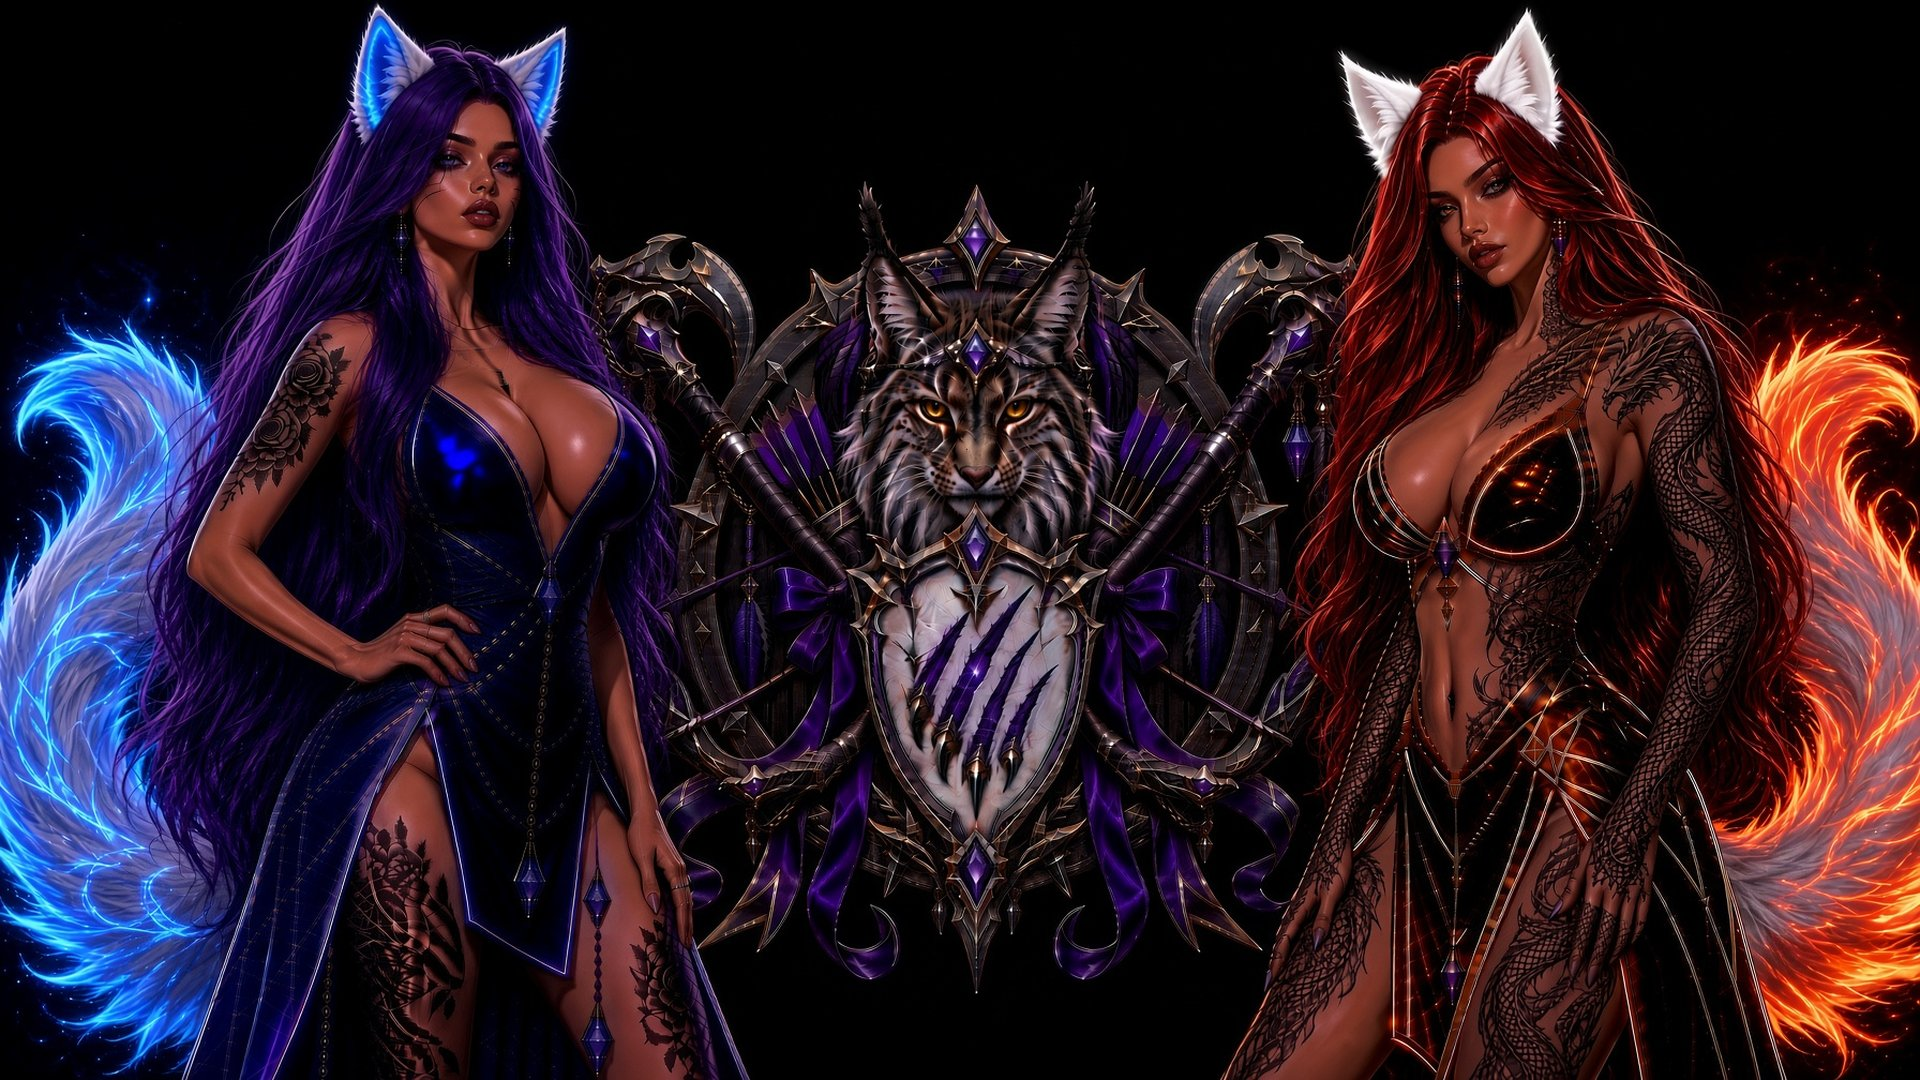
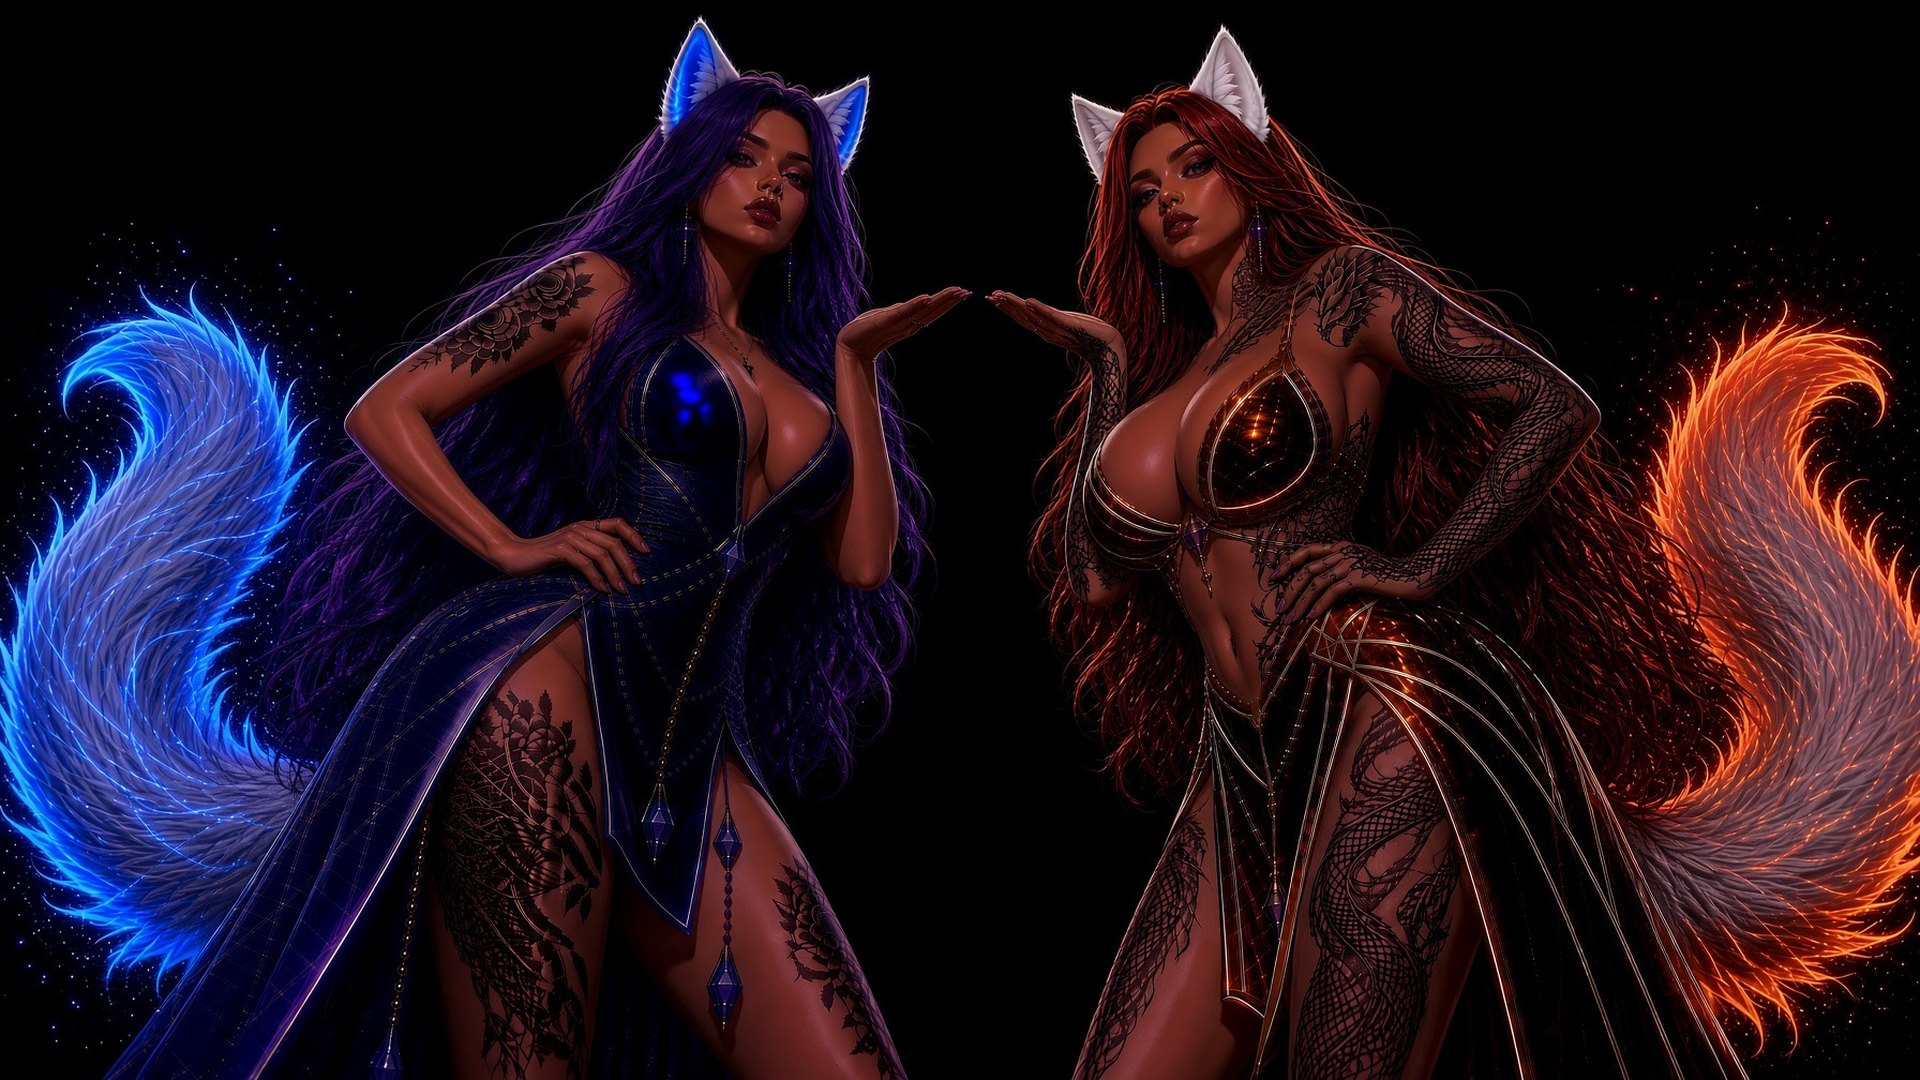
New background, color-changing heart, hide-text toggle

diff --git a/index.html b/index.html
@@ -17,8 +17,7 @@ body{font-family:'Space Mono','JetBrains Mono',ui-monospace,Menlo,Consolas,monos
 @keyframes hue{to{--h:360}}
 
 /* background */
-.bg{position:fixed;inset:-2%;background:url(bg.jpg) center/cover no-repeat;background-image:image-set(url(bg.webp) type("image/webp"),url(bg.jpg) type("image/jpeg"));filter:brightness(.85) saturate(1.1);animation:drift 40s ease-in-out infinite alternate;z-index:0}
-@keyframes drift{to{transform:scale(1.03) translate(-.5%,.5%)}}
+.bg{position:fixed;inset:0;background:url(bg.jpg) center/cover no-repeat;background-image:image-set(url(bg.webp) type("image/webp"),url(bg.jpg) type("image/jpeg"));filter:brightness(.85) saturate(1.1);z-index:0}
 .aurora{position:fixed;inset:0;z-index:1;mix-blend-mode:screen;opacity:.55;
  background:radial-gradient(40% 35% at 0% 0%,hsl(calc(var(--h)*1deg) 100% 60%/.7),transparent 70%),
  radial-gradient(40% 35% at 100% 0%,hsl(calc(var(--h)*1deg + 90deg) 100% 60%/.7),transparent 70%),
@@ -56,6 +55,27 @@ h1 span:first-child{font-size:.62em;letter-spacing:.18em}
 .discord:hover,.discord:focus-visible{transform:translateY(-2px) scale(1.04);outline:none}
 .discord svg{width:1.4em;height:1.4em;fill:currentColor}
 
+/* heart */
+.heart{position:fixed;left:0;top:0;z-index:20;pointer-events:none;width:60px;height:60px;transform:translate(-50%,-50%);will-change:left,top}
+.heart svg{width:100%;height:100%;display:block;overflow:visible;animation:beat 1.2s ease-in-out infinite}
+.heart path{fill:#ff2a2a;animation:hfill 8s linear infinite;filter:drop-shadow(0 0 4px currentColor) drop-shadow(0 0 12px currentColor);color:#ff2a2a}
+@keyframes hfill{0%{fill:#ff2a2a;color:#ff2a2a}9%{fill:#ff8a1f;color:#ff8a1f}18%{fill:#ffe81f;color:#ffe81f}27%{fill:#9dff1f;color:#9dff1f}36%{fill:#1fff5a;color:#1fff5a}45%{fill:#1ffff0;color:#1ffff0}54%{fill:#1fb4ff;color:#1fb4ff}63%{fill:#2a5bff;color:#2a5bff}72%{fill:#8a2aff;color:#8a2aff}81%{fill:#ff1fe8;color:#ff1fe8}90%{fill:#ff1f8a;color:#ff1f8a}100%{fill:#ff2a2a;color:#ff2a2a}}
+@keyframes beat{0%,40%,100%{transform:scale(1)}15%{transform:scale(1.18)}28%{transform:scale(1.05)}}
+/* toggle */
+main,.vignette{transition:opacity .6s ease}
+body.textoff main{opacity:0;pointer-events:none}
+body.textoff .vignette{opacity:0}
+.toggle{position:fixed;right:max(18px,env(safe-area-inset-right));bottom:max(18px,env(safe-area-inset-bottom));z-index:30;display:inline-flex;align-items:center;gap:.5em;padding:.6em 1.15em;border:0;border-radius:999px;cursor:pointer;color:#fff;font:700 .72rem/1 'Space Mono',monospace;letter-spacing:.12em;text-transform:uppercase;background:rgba(8,6,16,.78);isolation:isolate;transition:transform .2s;
+ box-shadow:0 0 16px hsl(calc(var(--h)*1deg) 100% 62%/.8),0 0 40px hsl(calc(var(--h)*1deg + 120deg) 100% 62%/.45)}
+.toggle::before{content:"";position:absolute;inset:0;border-radius:inherit;padding:2px;z-index:-1;
+ background:conic-gradient(from calc(var(--h)*3deg),#ff2a2a,#ff8a1f,#ffe81f,#9dff1f,#1fff5a,#1ffff0,#1fb4ff,#2a5bff,#8a2aff,#ff1fe8,#ff1f8a,#ff2a2a);
+ -webkit-mask:linear-gradient(#000 0 0) content-box,linear-gradient(#000 0 0);-webkit-mask-composite:xor;mask-composite:exclude}
+.toggle:hover{transform:translateY(-2px) scale(1.04)}
+.toggle:focus-visible{outline:2px solid #fff;outline-offset:4px}
+.toggle svg{width:1.4em;height:1.4em;fill:none;stroke:currentColor;stroke-width:2;stroke-linecap:round;stroke-linejoin:round}
+.toggle .slash{display:none}.toggle[aria-pressed="true"] .slash{display:inline}
+@media (max-width:600px){.toggle{padding:.55em .95em;font-size:.66rem}}
+
 /* torn intro */
 .tear{position:fixed;left:0;right:0;height:56vh;z-index:10;pointer-events:none;animation:1.4s cubic-bezier(.7,0,.2,1) .5s forwards}
 .tear svg{width:100%;height:100%;display:block}
@@ -72,6 +92,7 @@ main>*:nth-child(2){animation-delay:1.55s}main>*:nth-child(3){animation-delay:1.
  main>*{opacity:1}.tear{display:none}
  body{--h:280}
  h1 span{background-position:50% 0}
+ .heart path{fill:#ff1fe8;color:#ff1fe8}
 }
 </style>
 </head>
@@ -88,7 +109,7 @@ main>*:nth-child(2){animation-delay:1.55s}main>*:nth-child(3){animation-delay:1.
 <path fill="#0b0b0d" d="M0 560H1000V58L958 78 918 50 875 80 832 52 790 76 745 55 700 84 655 56 610 80 565 50 518 82 475 54 428 78 385 50 338 82 292 56 248 84 202 52 158 76 110 50 68 80 28 58 0 76Z"/>
 </svg></div>
 
-<main>
+<main id="content">
  <h1><span>We Are</span><span>Syndicate</span></h1>
  <div class="copy">
   <p class="lead">This is <b class="k" style="--o:0">SYNDICATE</b>. We are <b class="k" style="--o:33">FAMILY</b>.</p>
@@ -104,5 +125,19 @@ main>*:nth-child(2){animation-delay:1.55s}main>*:nth-child(3){animation-delay:1.
   Join the Discord
  </a>
 </main>
+<div class="heart" id="heart" aria-hidden="true"><svg viewBox="0 0 32 29"><path d="M16 28.5 13.7 26.4C5.6 19 .3 14.2.3 8.3.3 3.5 4 0 8.7 0c2.7 0 5.3 1.3 7.3 3.3C18 1.3 20.6 0 23.3 0 28 0 31.7 3.5 31.7 8.3c0 5.9-5.3 10.7-13.4 18.1L16 28.5Z"/></svg></div>
+<button class="toggle" id="toggle" type="button" aria-pressed="false" aria-controls="content"><svg viewBox="0 0 24 24" aria-hidden="true"><path d="M2 12s3.6-7 10-7 10 7 10 7-3.6 7-10 7S2 12 2 12Z"/><circle cx="12" cy="12" r="3"/><path class="slash" d="M3 3l18 18"/></svg><span>Hide text</span></button>
+<script>
+(function(){
+ var IW=1792,IH=1008,PX=913/1792,PY=275/1008,HS=0.032; // gap between palms (measured), heart = 3.2% of image width
+ var h=document.getElementById('heart');
+ function place(){var W=innerWidth,H=document.documentElement.clientHeight||innerHeight,s=Math.max(W/IW,H/IH),dw=IW*s,dh=IH*s,ox=(W-dw)/2,oy=(H-dh)/2,z=Math.max(14,dw*HS);
+  h.style.left=(ox+dw*PX)+'px';h.style.top=(oy+dh*PY)+'px';h.style.width=h.style.height=z+'px';}
+ addEventListener('resize',place);place();
+ var b=document.getElementById('toggle'),l=b.querySelector('span');
+ b.addEventListener('click',function(){var off=document.body.classList.toggle('textoff');b.setAttribute('aria-pressed',off);l.textContent=off?'Show text':'Hide text';document.getElementById('content').setAttribute('aria-hidden',off);});
+ if(location.hash=='#hidetext')b.click();
+})();
+</script>
 </body>
 </html>
